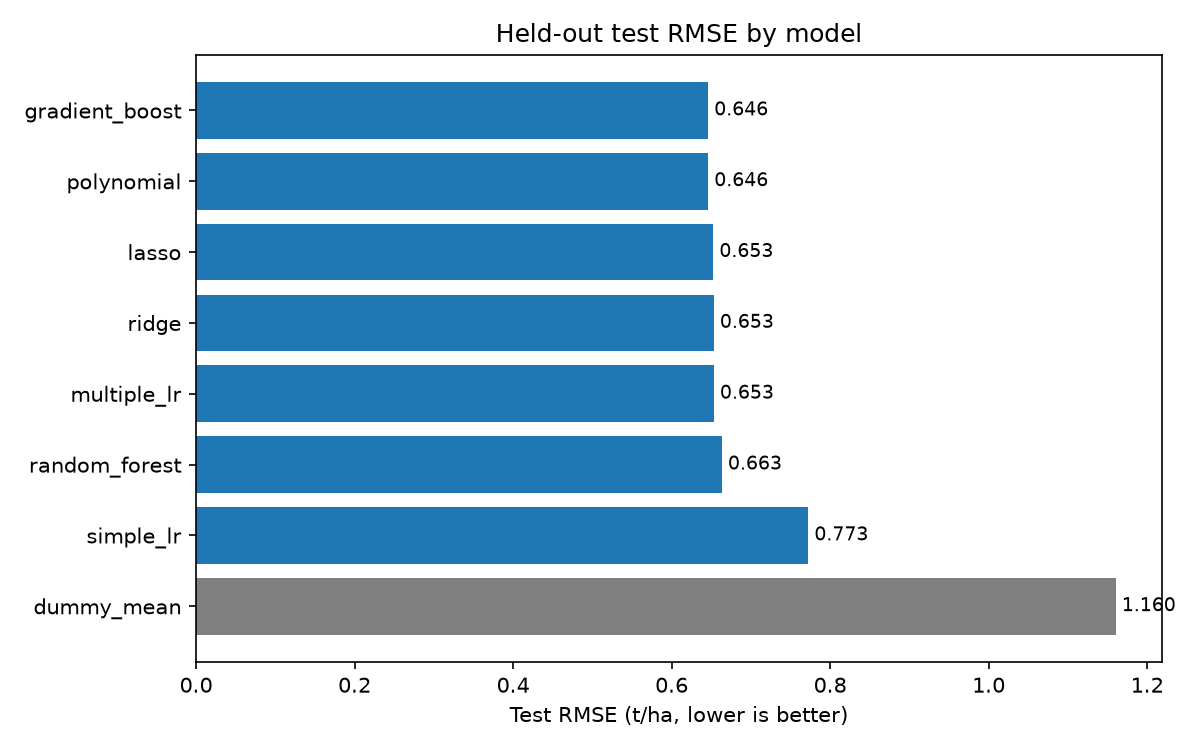
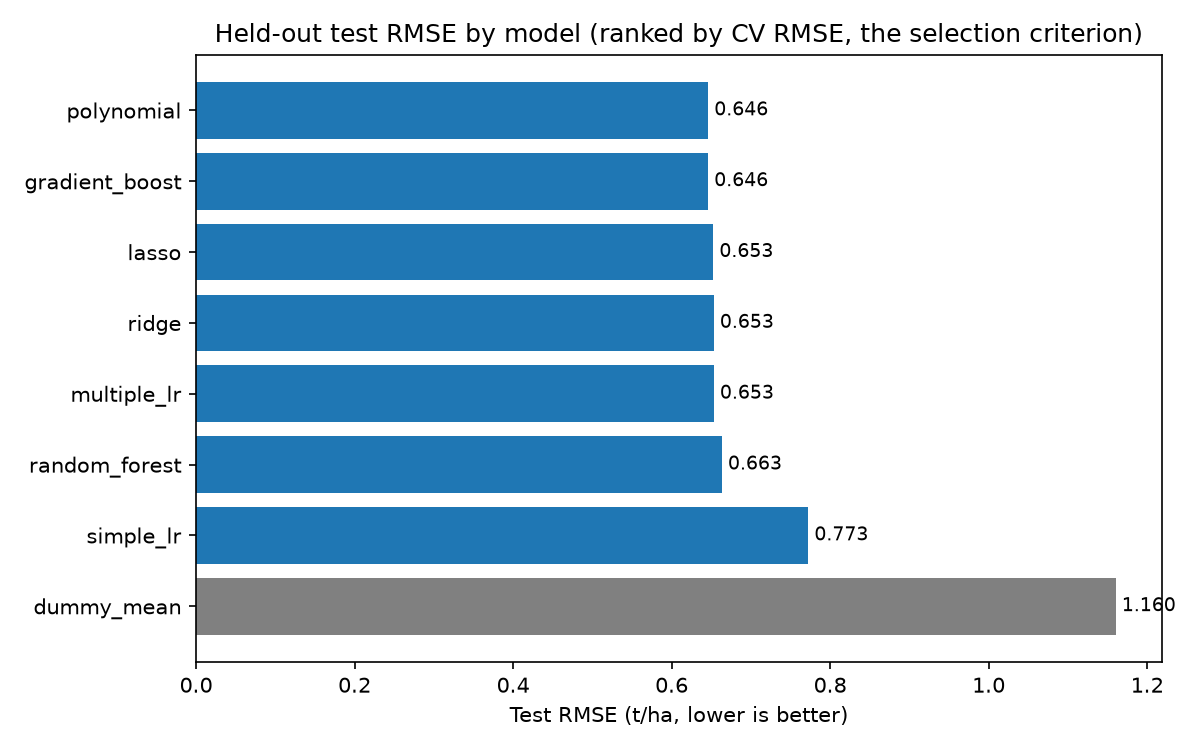
fix: leaderboard ranks by CV, add train RMSE
- The deployed model is chosen by CV RMSE, but the leaderboard ranked by test
  RMSE (XGBoost first) while calling Polynomial "our best model". Leaderboard,
  Technical chart/table, test_results.csv and model_comparison.png now all
  rank by CV RMSE; test RMSE is shown as its own column.
- New src.evaluate.leaderboard(cv, test) merges the CV mean/std into the test
  table and sorts by CV.
- test_results.csv gains train_rmse (error on the training split itself).
  Test and CV metric values are unchanged (max |diff| 0.0 after a rebuild).
- App note: "Selected by cross-validation; test set used once for final
  evaluation."; Technical KPIs now describe the selected model.
- tie_note compares against the selected model with abs().

Changed region(s): [[0.185, 0.0307, 0.9558, 0.0613], [0.0308, 0.2147, 0.1542, 0.276], [0.0308, 0.1227, 0.1542, 0.184]]

diff --git a/app.py b/app.py
@@ -18,6 +18,7 @@ from sklearn.base import RegressorMixin
 
 from src import config
 from src.data import load_split
+from src.evaluate import leaderboard
 from src.explain import RawFeatureExplainer
 from ui import charts, plain
 from ui.plain import FRIENDLY, PLAIN_MODEL_NAMES, TIPS
@@ -27,13 +28,13 @@ st.set_page_config(page_title="Crop Yield Prediction", page_icon="🌾", layout=
 inject_theme()
 
 TOP_CONTRIBUTIONS = 8  # the explanation chart shows the 8 largest; the rest are summed
-TIE_TOLERANCE = 0.001  # models within 0.001 t/ha of the best test RMSE count as tied best
 CURVE_POINTS = 40  # what-if and response curves sweep each factor over 40 values
 CURVE_SAMPLE = 300  # response curves average the prediction over 300 training fields
 SIMPLE, TECHNICAL = "Simple", "Technical"
 WHY, WHAT_IF = "Why this prediction", "What if I change…"
 PRESETS = ["Typical field", "Ideal field", "Drought year", "Low-input farm"]
 MINUS = "−"  # typographic minus sign for signed numbers
+SELECTION_NOTE = "Selected by cross-validation; test set used once for final evaluation."
 MODEL_LABELS = {
     "dummy_mean": "Mean baseline",
     "simple_lr": "Simple linear (fertilizer only)",
@@ -52,6 +53,10 @@ COLUMN_LABELS = {
     "rmse": "RMSE",
     "mae": "MAE",
     "r2": "R²",
+    "train_rmse": "Train RMSE",
+    "test_rmse": "Test RMSE",
+    "test_mae": "Test MAE",
+    "test_r2": "Test R²",
     "rmse_mean": "CV RMSE",
     "rmse_std": "CV RMSE (sd)",
     "mae_mean": "CV MAE",
@@ -258,7 +263,10 @@ def table_view(frame: pd.DataFrame) -> "pd.io.formats.style.Styler":
     if "predictor" in df:
         df["predictor"] = df["predictor"].str.replace(" x ", " × ").str.capitalize()
     numeric = list(df.select_dtypes("number"))
-    metric_cols = [c for c in numeric if not c.endswith("_std") and not c.startswith("delta")]
+    # Spreads, deltas and training-set errors are context, not something to be "best" at.
+    metric_cols = [
+        c for c in numeric if not c.endswith("_std") and not c.startswith(("delta", "train_"))
+    ]
     lower_better = [c for c in metric_cols if any(t in c for t in ("rmse", "mae", "median_abs"))]
     higher_better = [c for c in metric_cols if "r2" in c]
     best = {}
@@ -536,17 +544,16 @@ with tab_predict:
 
 with tab_models:
     results = load_table("test_results")
-    if results is None:
-        st.info("test_results.csv not found — run `python run.py` first.")
+    cv_results = load_table("cv_all_models")
+    if results is None or cv_results is None:
+        st.info("test_results.csv / cv_all_models.csv not found — run `python run.py` first.")
     else:
-        ranked = results.sort_values("rmse").reset_index(drop=True)
+        # Ranked by CV RMSE: the criterion the saved model was chosen by. The test set is
+        # shown alongside but never used to rank or pick.
+        ranked = leaderboard(cv_results, results)
         models_only = ranked[ranked["model"] != "dummy_mean"]
-        best = models_only.iloc[0]
-        best_r2 = models_only.loc[models_only["r2"].idxmax()]
         baseline = ranked.loc[ranked["model"] == "dummy_mean", "rmse"].iloc[0]
-        tied = set(models_only.loc[models_only["rmse"] - best["rmse"] <= TIE_TOLERANCE, "model"])
-        tied_labels = " · ".join(MODEL_LABELS[m] for m in models_only["model"] if m in tied)
-        saved_best = results.set_index("model").loc[names["best_overall"]]  # the app's model
+        saved_best = ranked.set_index("model").loc[names["best_overall"]]  # the app's model
         headline_card(
             plain.model_headline(
                 saved_best["rmse"], summary["test_mean"], saved_best["r2"], baseline
@@ -592,8 +599,9 @@ with tab_models:
             with board_side, st.container(key="card-board", height="stretch"):
                 card_title(
                     "Leaderboard",
-                    f"Typical error on {summary['n_test']} fields the models never saw",
-                    help_text=TIPS["test"],
+                    f"Ranked by cross-validation · typical error on {summary['n_test']} fields "
+                    "the models never saw",
+                    help_text=TIPS["cv"],
                 )
                 medals = ["🥇", "🥈", "🥉"]
                 rows = []
@@ -614,6 +622,7 @@ with tab_models:
                 st.html(
                     f'<table class="board">{"".join(rows)}</table>'
                     + (f'<p class="card-caption">{note}</p>' if note else "")
+                    + f'<p class="card-caption">{SELECTION_NOTE}{tip(TIPS["test"], left=True)}</p>'
                 )
             with scatter_side, st.container(key="card-scatter", height="stretch"):
                 card_title(
@@ -623,22 +632,24 @@ with tab_models:
                 )
                 st.altair_chart(charts.scatter_chart(held_out_predictions(), 280), theme=None)
         else:
+            selected_label = MODEL_LABELS[names["best_overall"]]
             with k1:
                 kpi_card(
-                    "Best test error (RMSE)",
-                    f"{best['rmse']:.3f}",
+                    "Selected model: CV RMSE",
+                    f"{saved_best['rmse_mean']:.3f}",
                     "t/ha",
-                    tied_labels,
+                    f"{selected_label} · ± {saved_best['rmse_std']:.3f} over "
+                    f"{config.CV_FOLDS} folds",
                     accent=True,
-                    help_text=TIPS["rmse"],
+                    help_text=TIPS["cv"],
                 )
             with k2:
                 kpi_card(
-                    "Best R²",
-                    f"{best_r2['r2']:.2f}",
-                    "",
-                    f"{MODEL_LABELS[best_r2['model']]} on {summary['n_test']} held-out fields",
-                    help_text=TIPS["r2"],
+                    "Test RMSE (used once)",
+                    f"{saved_best['rmse']:.3f}",
+                    "t/ha",
+                    f"R² {saved_best['r2']:.2f} on {summary['n_test']} held-out fields",
+                    help_text=TIPS["test"],
                 )
             with k3:
                 kpi_card(
@@ -651,7 +662,7 @@ with tab_models:
             with k4:
                 kpi_card(
                     "Improvement over baseline",
-                    f"{1 - best['rmse'] / baseline:.0%}",
+                    f"{1 - saved_best['rmse'] / baseline:.0%}",
                     "",
                     "Lower test RMSE than the mean baseline",
                     help_text=TIPS["improvement"],
@@ -660,31 +671,40 @@ with tab_models:
             chart_side, table_side = st.columns([11, 10], gap="medium")
             with chart_side, st.container(key="card-model-chart", height="stretch"):
                 card_title(
-                    "Held-out test error by model",
-                    "RMSE in t/ha — lower is better",
-                    help_text=TIPS["rmse"],
+                    "Cross-validation error by model",
+                    f"Mean RMSE over {config.CV_FOLDS} folds in t/ha — lower is better; "
+                    "the lowest is selected",
+                    help_text=TIPS["cv"],
                 )
                 chart_data = ranked.assign(label=ranked["model"].map(MODEL_LABELS))
                 st.altair_chart(
                     charts.ranked_bar_chart(
                         chart_data,
                         "label",
-                        "rmse",
-                        "Test RMSE (t/ha)",
+                        "rmse_mean",
+                        "CV RMSE (t/ha)",
                         ".3f",
                         height=300,
-                        highlight={MODEL_LABELS[m] for m in tied},
+                        highlight={selected_label},
                         muted={MODEL_LABELS["dummy_mean"]},
                     ),
                     theme=None,
                 )
             with table_side, st.container(key="card-model-table", height="stretch"):
                 card_title(
-                    "Test-set results",
-                    f"{summary['n_test']} held-out fields · best value per column highlighted",
+                    "Results by model",
+                    f"Ranked by CV RMSE · test = {summary['n_test']} held-out fields · best "
+                    "value per column highlighted",
                     help_text=TIPS["metrics"],
                 )
-                show_table(ranked[["model", "rmse", "mae", "r2"]])
+                columns = ["model", "rmse_mean", "rmse_std", "train_rmse", "rmse", "mae", "r2"]
+                columns = [c for c in columns if c in ranked]  # tables from older builds
+                show_table(
+                    ranked[columns].rename(
+                        columns={"rmse": "test_rmse", "mae": "test_mae", "r2": "test_r2"}
+                    )
+                )
+                st.html(f'<p class="card-caption">{SELECTION_NOTE}</p>')
 
 with tab_drivers:
     agreement = load_table("importance_agreement")

diff --git a/src/pipeline.py b/src/pipeline.py
@@ -12,6 +12,7 @@ import joblib
 import matplotlib.pyplot as plt
 import pandas as pd
 from sklearn.base import RegressorMixin, clone
+from sklearn.metrics import root_mean_squared_error
 from sklearn.model_selection import GroupKFold
 
 from src import config
@@ -79,16 +80,29 @@ def run_group_cv(
 
 
 def run_final_test(
-    models: dict[str, RegressorMixin], train_df: pd.DataFrame, test_df: pd.DataFrame
+    models: dict[str, RegressorMixin],
+    train_df: pd.DataFrame,
+    test_df: pd.DataFrame,
+    order: list[str],
 ) -> tuple[pd.DataFrame, dict[str, RegressorMixin]]:
-    """Fit every model on the full training split and evaluate ONCE on the test split."""
+    """Fit every model on the full training split and evaluate ONCE on the test split.
+
+    Rows follow `order` (the CV ranking, i.e. the selection criterion), not the test score.
+    train_rmse is the error on the training split itself, to show the train/test gap.
+    """
     X_train, y_train = split_xy(train_df)
     X_test, y_test = split_xy(test_df)
     fitted, rows = {}, []
     for name, model in models.items():
         fitted[name] = clone(model).fit(X_train, y_train)
-        rows.append({"model": name, **holdout_metrics(y_test, fitted[name].predict(X_test))})
-    results = pd.DataFrame(rows).sort_values("rmse").reset_index(drop=True)
+        rows.append(
+            {
+                "model": name,
+                **holdout_metrics(y_test, fitted[name].predict(X_test)),
+                "train_rmse": root_mean_squared_error(y_train, fitted[name].predict(X_train)),
+            }
+        )
+    results = pd.DataFrame(rows).set_index("model").loc[order].reset_index()
     results.to_csv(config.TABLES_DIR / "test_results.csv", index=False)
     return results, fitted
 
@@ -112,13 +126,16 @@ def plot_results(
     best_linear: str,
 ) -> None:
     """Model-comparison bar chart and predicted-vs-actual plots."""
-    ordered = test_results.sort_values("rmse", ascending=False)
+    ordered = test_results.iloc[::-1]  # CV ranking, best at the top of the horizontal bars
     fig, ax = plt.subplots(figsize=(8, 5))
     colors = ["grey" if m == "dummy_mean" else "tab:blue" for m in ordered["model"]]
     ax.barh(ordered["model"], ordered["rmse"], color=colors)
     for y_pos, value in enumerate(ordered["rmse"]):
         ax.text(value, y_pos, f" {value:.3f}", va="center", fontsize=9)
-    ax.set(xlabel="Test RMSE (t/ha, lower is better)", title="Held-out test RMSE by model")
+    ax.set(
+        xlabel="Test RMSE (t/ha, lower is better)",
+        title="Held-out test RMSE by model (ranked by CV RMSE, the selection criterion)",
+    )
     save_figure(fig, "model_comparison")
     plt.close(fig)
 
@@ -204,7 +221,7 @@ def main() -> None:
     print("\nGroupKFold by region:\n" + group_cv.round(4).to_string(index=False))
 
     # --- The ONLY place the Kaggle test split is used. Nothing is changed after this. ---
-    test_results, fitted = run_final_test(models, train_df, test_df)
+    test_results, fitted = run_final_test(models, train_df, test_df, list(cv_all["model"]))
     print("\nTest results:\n" + test_results.round(4).to_string(index=False))
 
     print("\nBest params:", json.dumps(save_best_params(fitted), indent=2))

diff --git a/src/evaluate.py b/src/evaluate.py
@@ -51,6 +51,15 @@ def cross_validate_models(
     return pd.DataFrame(rows).sort_values("rmse_mean").reset_index(drop=True)
 
 
+def leaderboard(cv: pd.DataFrame, test: pd.DataFrame) -> pd.DataFrame:
+    """Test results ranked by mean CV RMSE, the criterion the deployed model was chosen by.
+
+    The test columns are kept as they are; the CV mean and std are added alongside.
+    """
+    board = cv[["model", "rmse_mean", "rmse_std"]].merge(test, on="model", how="inner")
+    return board.sort_values("rmse_mean", kind="stable").reset_index(drop=True)
+
+
 def holdout_metrics(y_true: pd.Series, y_pred: np.ndarray) -> dict[str, float]:
     """RMSE, MAE and R^2 for a single held-out evaluation."""
     return {

diff --git a/ui/plain.py b/ui/plain.py
@@ -278,8 +278,11 @@ def model_headline(rmse: float, mean_yield: float, r2: float, baseline_rmse: flo
 
 
 def tie_note(errors: list[float]) -> str:
-    """How many of the top models are within 0.01 t/ha of the best (a practical tie)."""
-    close = sum(e - errors[0] < 0.01 for e in errors)
+    """How many models are within 0.01 t/ha of the first one (a practical tie).
+
+    errors: test errors in leaderboard order (the first is the selected model).
+    """
+    close = sum(abs(e - errors[0]) < 0.01 for e in errors)
     return (
         f"The top {close} are within 0.01 t/ha of each other: practically a tie."
         if close > 1
